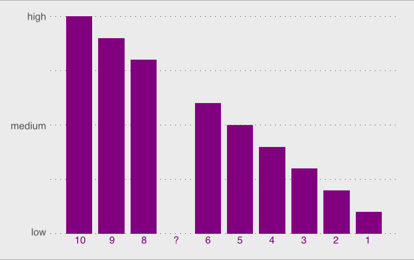
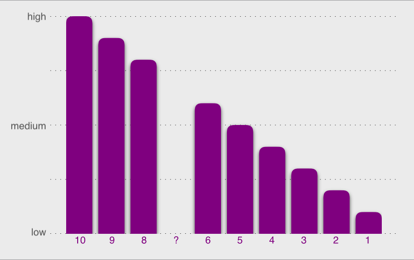
fixed bar animation

diff --git a/Sources/Graffeine-Demo/Main/VerticalDescendingBars/VerticalDescendingBarsConfig.swift b/Sources/Graffeine-Demo/Main/VerticalDescendingBars/VerticalDescendingBarsConfig.swift
@@ -51,6 +51,11 @@ class VerticalDescendingBarsConfig: GraffeineViewConfig {
                     $0.insets = barLayerInsets
                     $0.unitMargin = unitMargin
                     $0.colors = [.purple]
+                    $0.roundedEnds = .hi(6)
+                    $0.barShadowColor = .black
+                    $0.barShadowOpacity = 0.7
+                    $0.barShadowRadius = 2.0
+                    $0.barShadowOffset = CGSize(width: 0, height: 2)
                 })
         ]
     }

diff --git a/Sources/Graffeine-Demo/Main/VerticalDescendingBars/VerticalDescendingBarsCell.swift b/Sources/Graffeine-Demo/Main/VerticalDescendingBars/VerticalDescendingBarsCell.swift
@@ -17,7 +17,7 @@ class VerticalDescendingBarsCell: UITableViewCell, DataAppliable {
 
     func barAnimator(_ animated: Bool) -> GraffeineBarDataAnimating? {
         return (animated)
-            ? GraffeineDataAnimators.Bar.Grow(duration: 2.0, timing: .easeInEaseOut)
+            ? GraffeineDataAnimators.Bar.Grow(duration: 0.88, timing: .easeInEaseOut)
             : nil
     }
 
